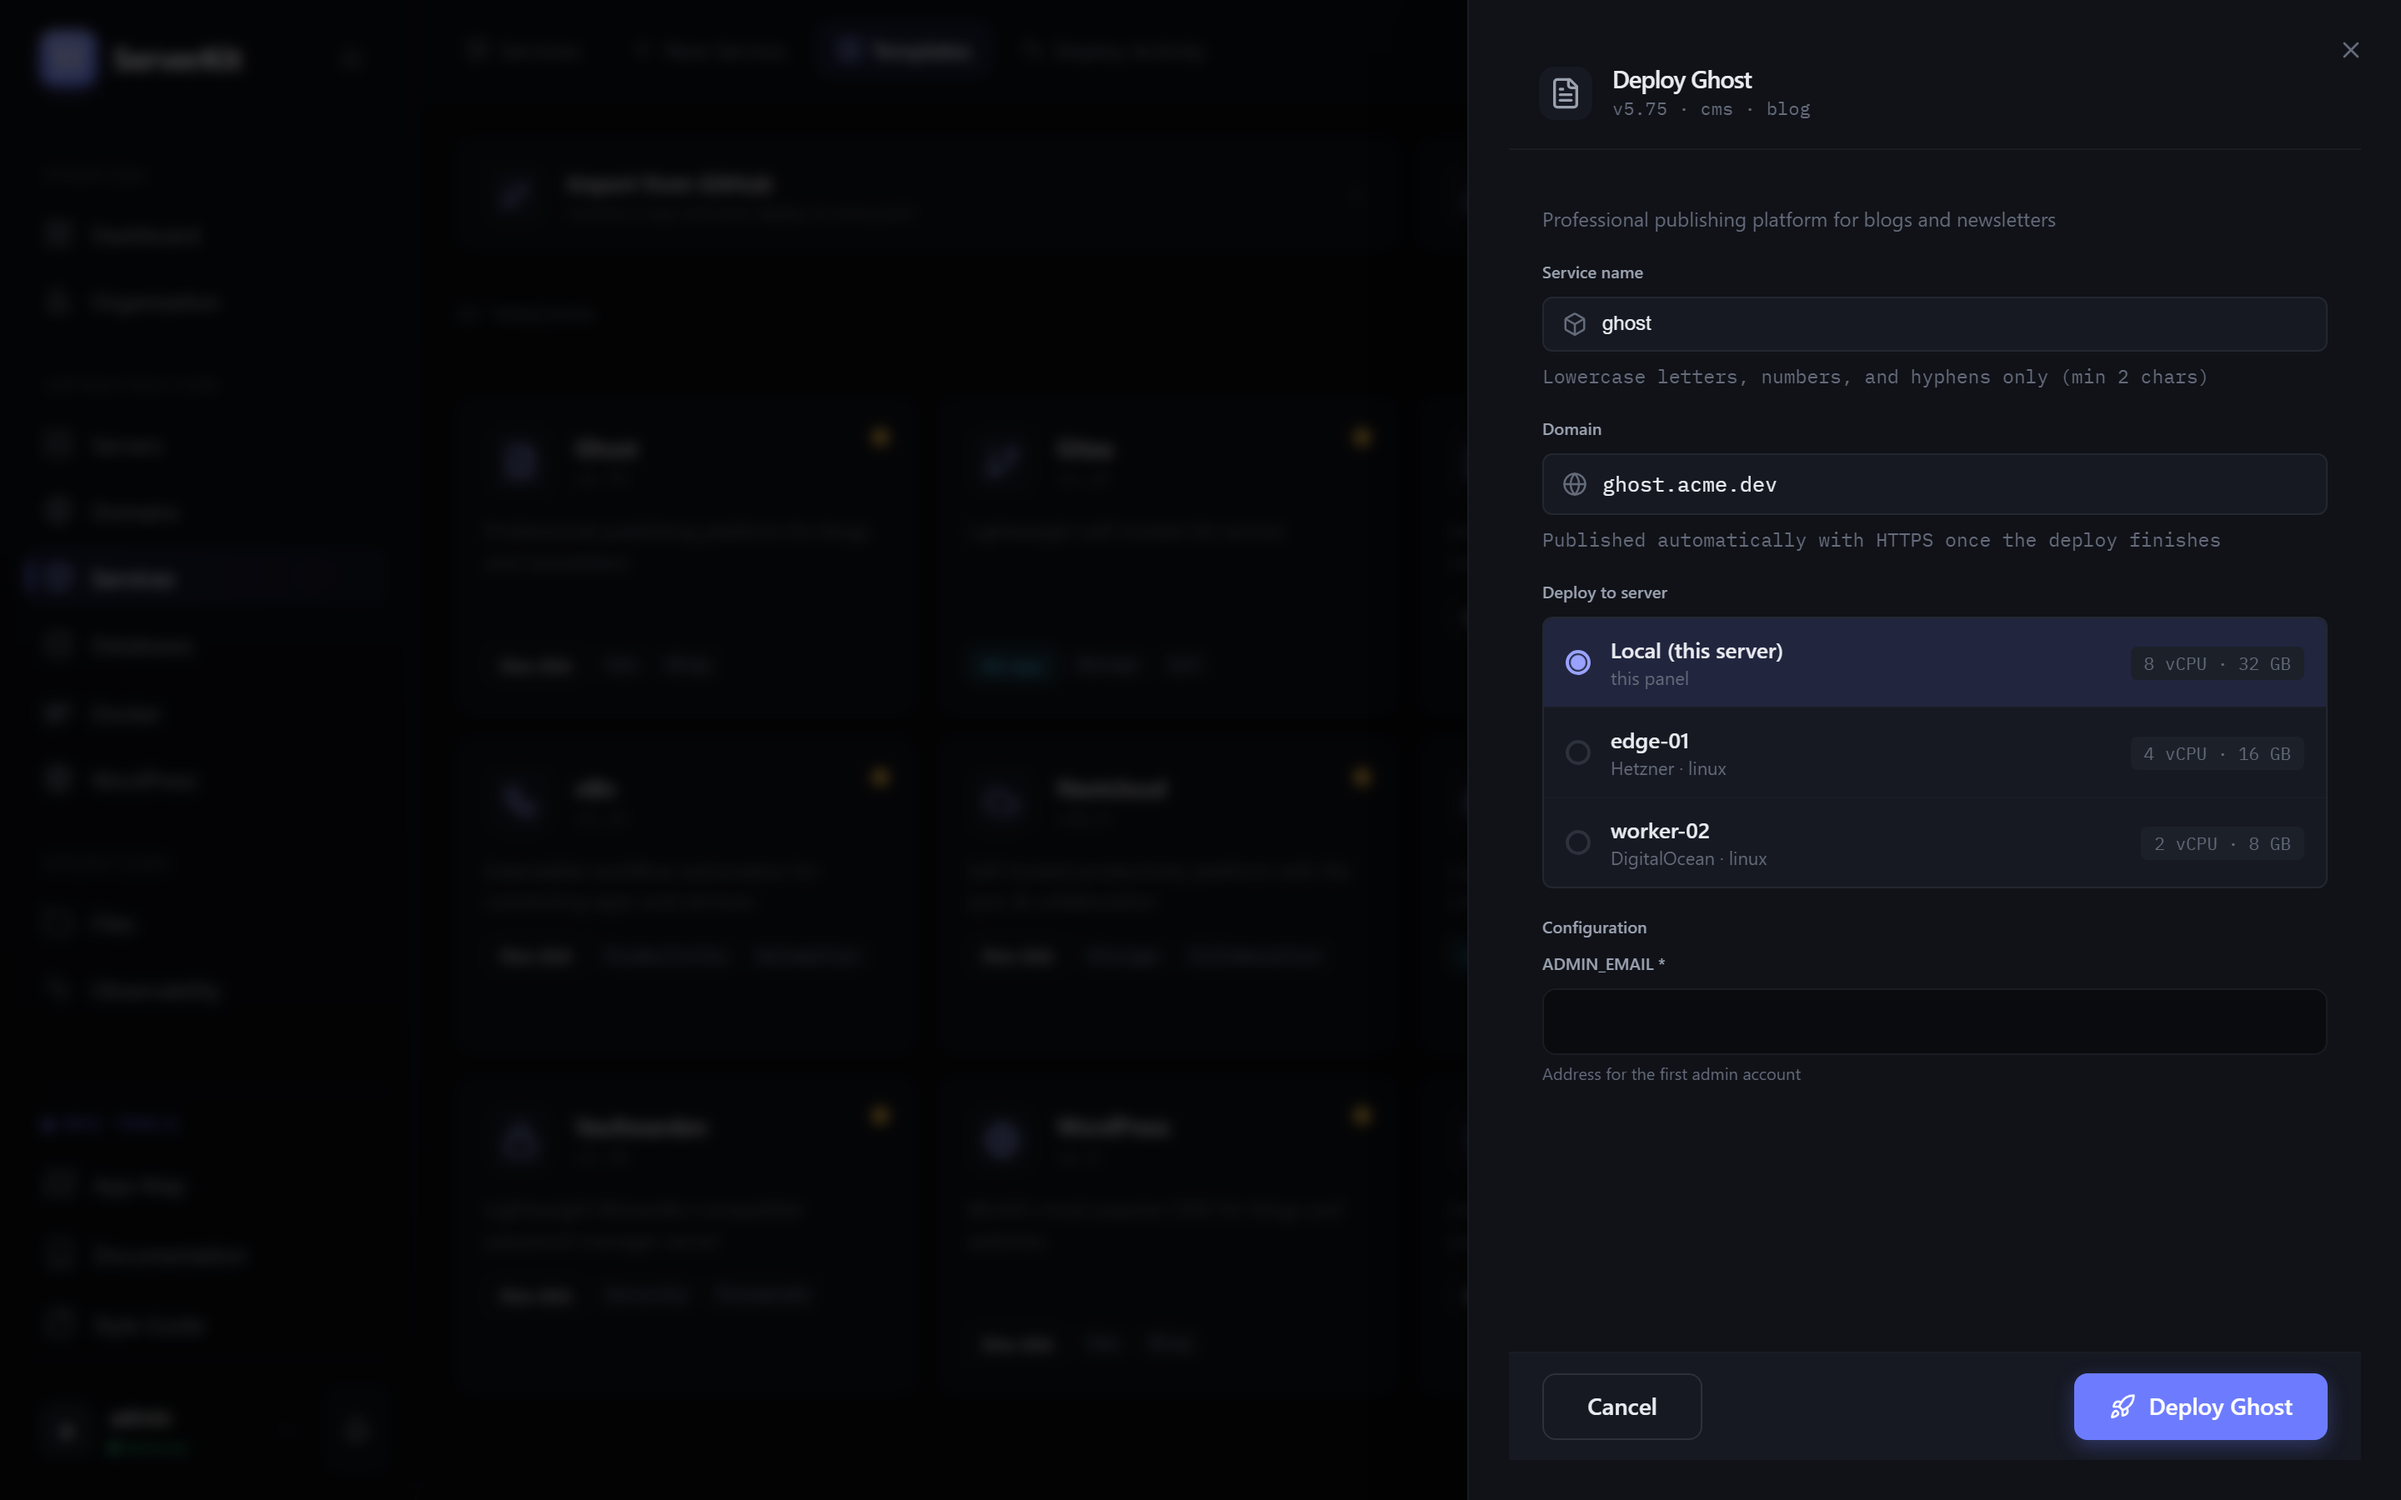
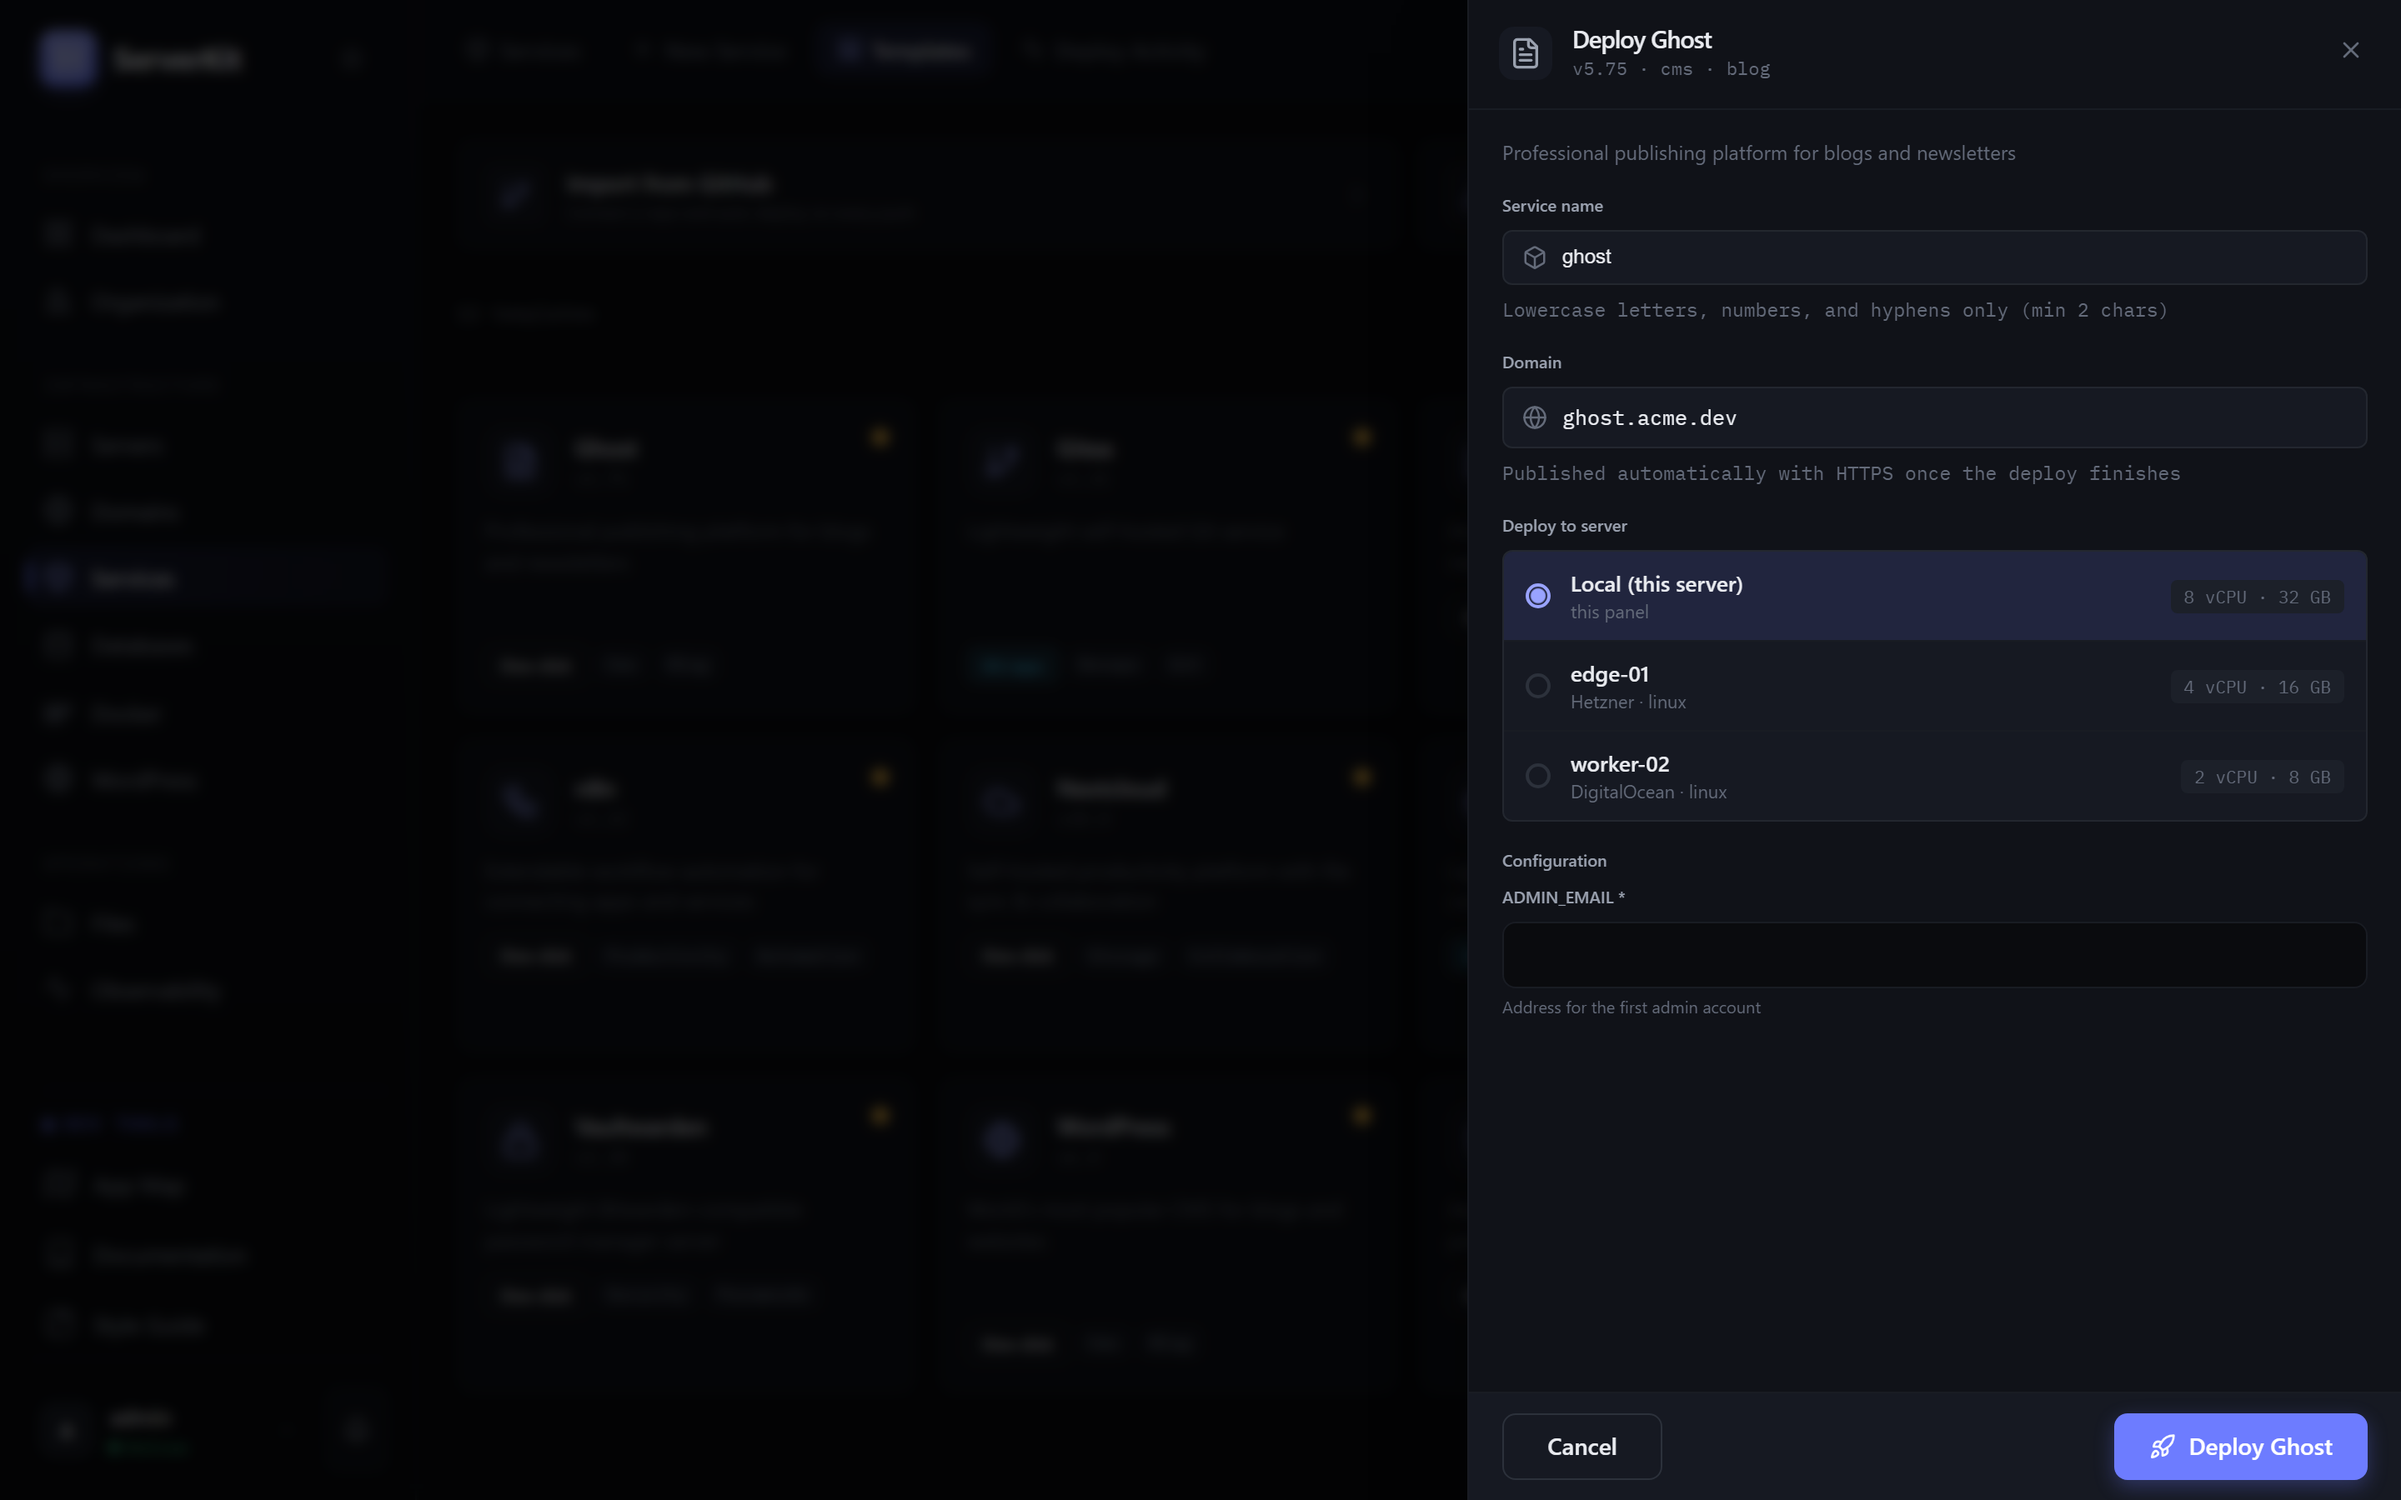
fix(ui): let drawer footers reach the bottom edge
The shared sheet sets padding and a gap on the panel itself, but
.sk-drawer lays out three full-height regions inside it — head, body,
foot — each managing its own padding. The panel's padding therefore inset
all of them: the header's divider stopped short of both edges and the
footer floated above a band of dead space instead of sitting on the
bottom edge.

Zero the panel's padding and gap, and give scrolling to __body alone —
with the panel itself scrollable the footer could not stay put either.

Fixed at .sk-drawer rather than per page, so every drawer gets it: the
template deploy and filter drawers had the same gap.

Measured after the slide-in settles: 0px below the footer, and head/foot
now span the full panel width.

diff --git a/frontend/src/styles/components/_design-system.scss b/frontend/src/styles/components/_design-system.scss
@@ -523,6 +523,17 @@ $sk-tones: ('accent', 'green', 'cyan', 'amber', 'red', 'violet');
 // Drawer — right-side slide-over header chrome (panel comes from ui/sheet).
 // ------------------------------------------------------------
 .sk-drawer {
+    // Cancel the sheet's own padding/gap/scroll. This element owns three
+    // full-height regions — head, body, foot — that each manage their own
+    // padding, so the panel's must be zero or every one of them is inset:
+    // the header's divider stops short of both edges, and the footer floats
+    // above a band of dead space instead of sitting on the bottom edge.
+    // Scrolling belongs to __body alone, or the panel scrolls as a whole and
+    // the footer cannot stay put.
+    padding: 0;
+    gap: 0;
+    overflow: hidden;
+
     &__head {
         display: flex; align-items: center; gap: 12px;
         padding: 15px 18px; border-bottom: 1px solid var(--border-soft); flex-shrink: 0;
